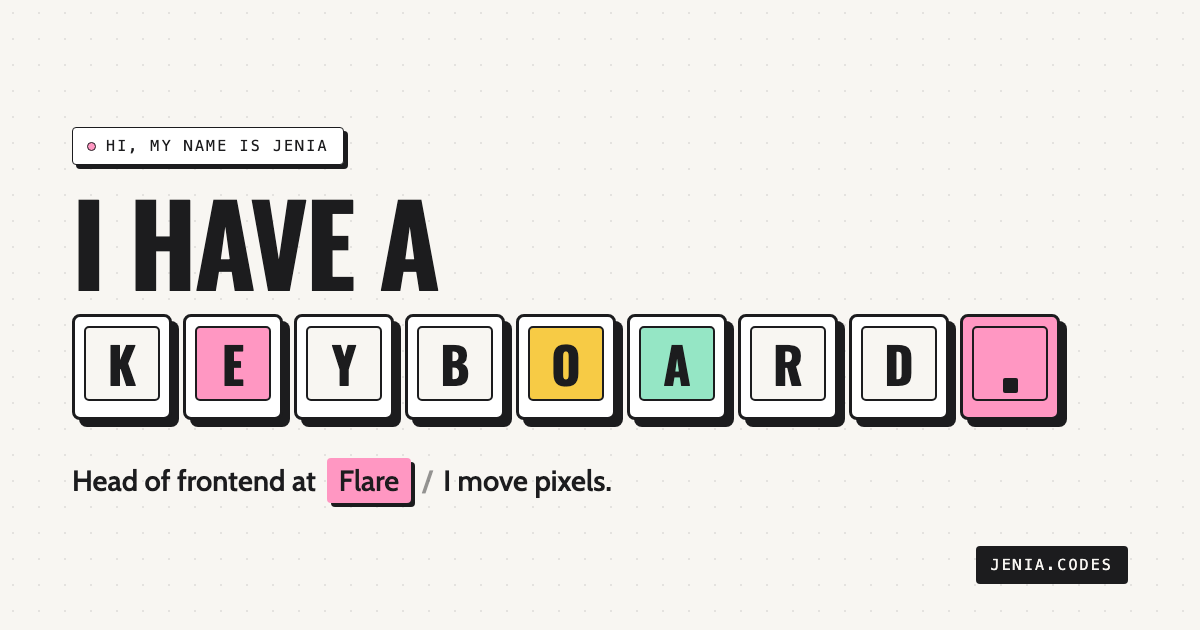
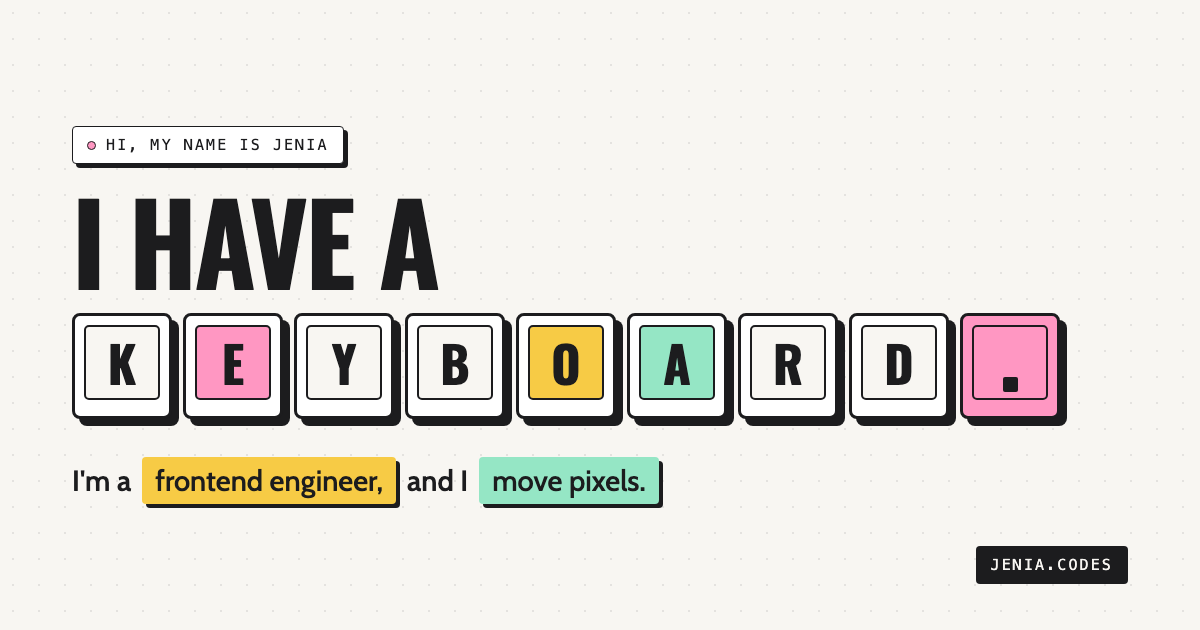
Take Flare out of the sharing metadata
Removes the employer from the two meta descriptions and the og:image alt
text, and re-renders the preview card: the role line now mirrors the
site's own tagline, "I'm a frontend engineer, and I move pixels.", using
the same accent and interactive chips as the hero.

Flare stays in the About page body and the experience timeline, which is
visible content rather than metadata attached to every shared link.

diff --git a/app/routes/home.tsx b/app/routes/home.tsx
@@ -14,7 +14,7 @@ export function meta({}: Route.MetaArgs) {
   return seo({
     title: "Jenia Brook - Frontend Engineer",
     description:
-      "Head of frontend at Flare. Design systems, frontend architecture, and the tooling that makes agents useful on a real codebase.",
+      "Head of frontend. Design systems, frontend architecture, and the tooling that makes agents useful on a real codebase.",
     path: "/",
   });
 }

diff --git a/app/routes/about.tsx b/app/routes/about.tsx
@@ -19,7 +19,7 @@ export function meta({}: Route.MetaArgs) {
   return seo({
     title: "About - Jenia Brook",
     description:
-      "Frontend engineer living in the sweet spot between engineering and design. Head of frontend at Flare, shipping since 2017.",
+      "Frontend engineer living in the sweet spot between engineering and design. Head of frontend, shipping since 2017.",
     path: "/about",
   });
 }

diff --git a/app/seo.ts b/app/seo.ts
@@ -16,7 +16,7 @@ export const SITE_NAME = "Jenia Brook";
 
 const OG_IMAGE = `${SITE_URL}/og.png`;
 const OG_IMAGE_ALT =
-  "I have a keyboard — the word KEYBOARD spelled out in keycaps. Jenia Brook, head of frontend at Flare.";
+  "I have a keyboard — the word KEYBOARD spelled out in keycaps. Jenia Brook, frontend engineer.";
 
 /**
  * Canonical <link> for a route. Link tags belong to the `links` export —
